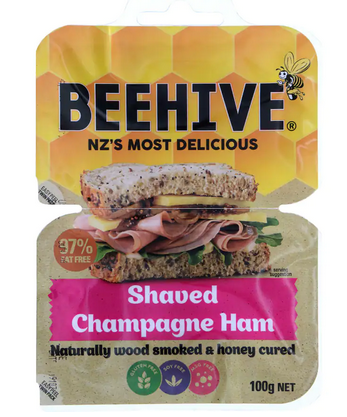
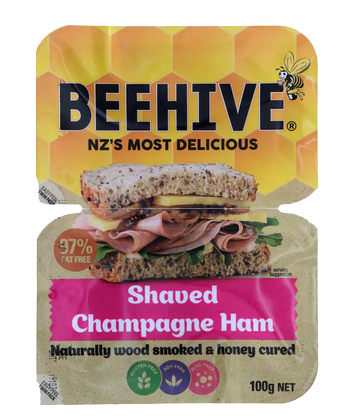
Removed backgrounds from item images (#121)
* added images with removed backgrounds

* converted all jpg image references to png

* corrected poorly updated images

* removed unneeded jpg images

* cropped images to fill containers

* update file names in db

* removed code to update db

* Revert "removed code to update db"

This reverts commit a712c7e2dcaac44ff384035695252d9a8a0dba92.

* Revert "update file names in db"

This reverts commit 0370e97a9499048a7e82dde477bd4c24f39336fb.

* reupdate images from jpg to png

Changed region(s): [[0.8934, 0.4365, 0.9222, 0.4676], [0.0865, 0.9041, 0.1153, 0.9353]]

diff --git a/ShoppIt/src/main/controllers/MainController.java b/ShoppIt/src/main/controllers/MainController.java
@@ -42,6 +42,48 @@ public class MainController implements Initializable {
         colourImages();
 
         DatabaseManager DB = new DatabaseManager();
+        // TODO: remove all this when all pull requests are complete
+        DB.updateImage("Apples", "apple.png");
+        DB.updateImage("Bananas", "banana.png");
+        DB.updateImage("Broccoli", "broccoli.png");
+        DB.updateImage("Carrots", "carrots.png");
+        DB.updateImage("Chicken breast", "chicken_breast.png");
+        DB.updateImage("Eggs", "egg.png");
+        DB.updateImage("Greek yogurt", "greek_yogurt.png");
+        DB.updateImage("Milk", "milk.png");
+        DB.updateImage("Olive oil", "olive_oil.png");
+        DB.updateImage("Pasta", "pasta.png");
+        DB.updateImage("Pistachios", "pistachios.png");
+        DB.updateImage("Potatoes", "potatoes.png");
+        DB.updateImage("Rice", "rice.png");
+        DB.updateImage("Spinach", "spinach.png");
+        DB.updateImage("Steak", "steak.png");
+        DB.updateImage("Tasty cheese", "tasty_cheese.png");
+        DB.updateImage("White bread", "tip_top_bread.png");
+        DB.updateImage("Ice cream", "tip_top_ice_cream.png");
+        DB.updateImage("Tomatoes", "tomato.png");
+        DB.updateImage("Hazelnut Chocolate", "whittakers_hazelnut.png");
+        DB.updateImage("Avocado", "avocado.png");
+        DB.updateImage("Avocado", "avocado.png");
+        DB.updateImage("Capsicum", "capsicum.png");
+        DB.updateImage("Butter", "butter.png");
+        DB.updateImage("Cream", "cream.png");
+        DB.updateImage("Spring Onion", "spring_onions.png");
+        DB.updateImage("Camembert", "camembert.png");
+        DB.updateImage("Lamb", "lamb.png");
+        DB.updateImage("Mushroom", "mushrooms.png");
+        DB.updateImage("Wholemeal bread", "tip_top_wholemeal_bread.png");
+        DB.updateImage("Tuna", "tuna.png");
+        DB.updateImage("Edam cheese", "edam_cheese.png");
+        DB.updateImage("Chocolate chippies Cookies", "chocolate_chippies_cookies.png");
+        DB.updateImage("Stripes cookies", "stripes_cookies.png");
+        DB.updateImage("Berry yogurt", "berry_yogurt.png");
+        DB.updateImage("Shaved ham", "beehive_ham.png");
+        DB.updateImage("Sesameal crackers", "sesameal_crackers.png");
+        DB.updateImage("Weet-Bix", "weet_bix.png");
+        DB.updateImage("Canola oil", "canola.png");
+        DB.updateImage("Dairy Milk Bar", "dairy_milk_bar.png");
+        DB.updateImage("Sour Patch Kids", "sour_patch_kids.png");
         try {
             lists = DB.getTable(ShoppingList.class, "ShoppingList");
 
